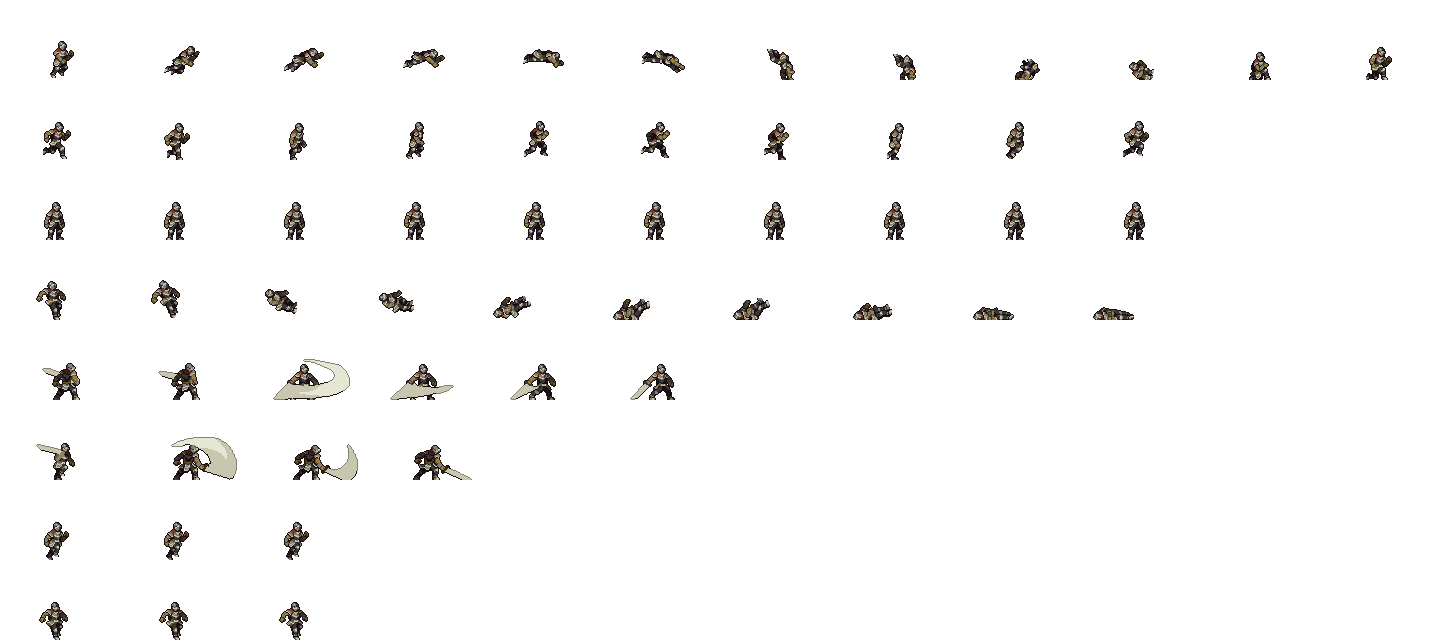
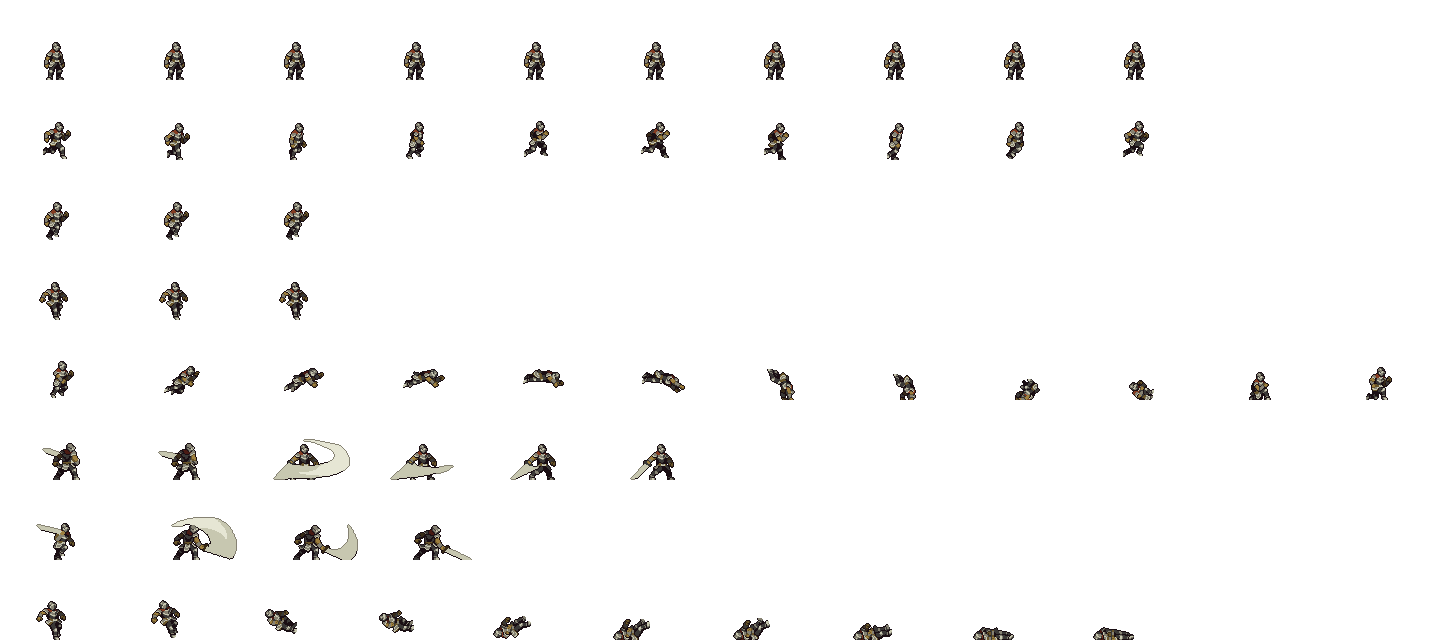
changement de la struct mob pour mieux gerer les animations

diff --git a/src/create/player.c b/src/create/player.c
@@ -7,24 +7,37 @@
 
 #include "../../include/my.h"
 
+void set_ply_rect(mob_t *ply)
+{
+    ply->rect = malloc(sizeof(sfIntRect) * 8);
+    ply->rect[0] = (sfIntRect){0, 0, 120, 80};
+    ply->rect[1] = (sfIntRect){0, 80, 120, 80};
+    ply->rect[2] = (sfIntRect){0, 160, 120, 80};
+    ply->rect[3] = (sfIntRect){0, 240, 120, 80};
+    ply->rect[4] = (sfIntRect){0, 320, 120, 80};
+    ply->rect[5] = (sfIntRect){0, 400, 120, 80};
+    ply->rect[6] = (sfIntRect){0, 480, 120, 80};
+    ply->rect[7] = (sfIntRect){0, 560, 120, 80};
+    ply->i = 0;
+}
+
 sfVector2f get_ply_pos(game_t *game)
 {
-    return (sfVector2f){160, 580};
+    return (sfVector2f){200, 480+80};
 }
 
 mob_t *create_player(game_t *game)
 {
     mob_t *ply = malloc(sizeof(mob_t));
+    set_ply_rect(ply);
     ply->clock = sfClock_create();
     ply->sprt = sfSprite_create();
-    ply->rect = (sfIntRect){0, 80, 120, 80};
     ply->txtr = sfTexture_createFromFile("./asset/mob/knight.png", NULL);
     ply->pos = get_ply_pos(game);
     sfSprite_setTexture(ply->sprt, ply->txtr, sfFalse);
-    sfSprite_setTextureRect(ply->sprt, ply->rect);
+    sfSprite_setTextureRect(ply->sprt, ply->rect[ply->i]);
     sfSprite_setScale(ply->sprt, (sfVector2f){2.55, 2.55});
-    sfFloatRect tmp = sfSprite_getLocalBounds(ply->sprt);
-    sfSprite_setOrigin(ply->sprt, (sfVector2f){0, 80});
+    sfSprite_setOrigin(ply->sprt, (sfVector2f){60, 40});
     sfSprite_setPosition(ply->sprt, ply->pos);
     return ply;
 }

diff --git a/include/my.h b/include/my.h
@@ -29,14 +29,6 @@ void display(game_t *game);
 void display_scene_menu(game_t *game);
 void create_scene_menu(game_t *game);
 void create_scene_one(scene_t *scene);
-void button_click(sfRenderWindow *window, button_t *button, sfIntRect newrect);
-void manage_scnmn_one(game_t *game, sfMouseButtonEvent mouse);
-void manage_scnmn_two(game_t *game, sfMouseButtonEvent mouse);
-void manage_scnmn_tree(game_t *game, sfMouseButtonEvent mouse);
-void manage_scnmn_four(game_t *game, sfMouseButtonEvent mouse);
-void manage_scgm_one(game_t *game, sfMouseButtonEvent mouse);
-void manage_scgm_two(game_t *game, sfMouseButtonEvent mouse);
-void manage_scgm_three(game_t *game, sfMouseButtonEvent mouse);
 
 char *get_buffer(char const *filepath);
 void get_txtr(map_t *map, char *buf);void get_lvl(map_t *map, char *buf);
@@ -44,5 +36,7 @@ void get_size(map_t *map, char *buf);
 void get_map(map_t *map, char *buf);
 
 void animate(game_t *game);
+void move_rect(mob_t *mob, sfIntRect *rect, int offset, int max_value);
+void timer(mob_t *mob, float t, int x, int y);
 
 #endif

diff --git a/src/event/analyse.c b/src/event/analyse.c
@@ -35,8 +35,11 @@ void analyse_event(game_t *game)
         sfRenderWindow_close(game->wndw);
     // if (game->event.type == sfEvtMouseButtonPressed)
     //     manage_mouse_click(game, game->event.mouseButton);
-    if (game->event.type == sfEvtKeyPressed && game->event.key.code == sfKeyRight)
+    else if (game->event.type == sfEvtKeyPressed && game->event.key.code == sfKeyRight) {
+        sfSprite_setScale(game->ply->sprt, (sfVector2f){2.55, 2.55});
         move_right(game->scn[0], game->scn[0]->map->size - 1);
-    if (game->event.type == sfEvtKeyPressed && game->event.key.code == sfKeyLeft)
+    } else if (game->event.type == sfEvtKeyPressed && game->event.key.code == sfKeyLeft) {
+        sfSprite_setScale(game->ply->sprt, (sfVector2f){-2.55, 2.55});
         move_left(game->scn[0]);
+    }
 }

diff --git a/src/animate/for_animate.c b/src/animate/for_animate.c
@@ -2,7 +2,7 @@
 ** EPITECH PROJECT, 2022
 ** my_Rpg
 ** File description:
-** animate
+** for_animate
 */
 
 #include "../../include/my.h"
@@ -20,19 +20,7 @@ void timer(mob_t *mob, float t, int x, int y)
     mob->time = sfClock_getElapsedTime(mob->clock);
     mob->seconds = mob->time.microseconds / 1000000.0;
     if (mob->seconds > t) {
-        move_rect(mob, &mob->rect, x, y);
+        move_rect(mob, &mob->rect[mob->i], x, y);
         sfClock_restart(mob->clock);
     }
-}
-
-void animate_knight(mob_t *ply)
-{
-    timer(ply, 0.06, 120, 1200);
-    sfSprite_setTextureRect(ply->sprt, ply->rect);
-    sfSprite_setPosition(ply->sprt, ply->pos);
-}
-
-void animate(game_t *game)  
-{
-    animate_knight(game->ply);
 }

diff --git a/src/animate/animate.c b/src/animate/animate.c
@@ -1,0 +1,20 @@
+/*
+** EPITECH PROJECT, 2022
+** my_Rpg
+** File description:
+** animate
+*/
+
+#include "../../include/my.h"
+
+void animate_knight(mob_t *ply)
+{
+    timer(ply, 0.06, 120, 1200);
+    sfSprite_setTextureRect(ply->sprt, ply->rect[ply->i]);
+    sfSprite_setPosition(ply->sprt, ply->pos);
+}
+
+void animate(game_t *game)  
+{
+    animate_knight(game->ply);
+}

diff --git a/include/struct.h b/include/struct.h
@@ -64,8 +64,9 @@ typedef struct mob_s {
     sfSprite *sprt;
     sfTexture *txtr;
     sfVector2f pos;
-    sfIntRect rect;
+    sfIntRect *rect;
     int souls;
+    int i;
     sfClock *clock;
     sfTime time;
     float seconds;
